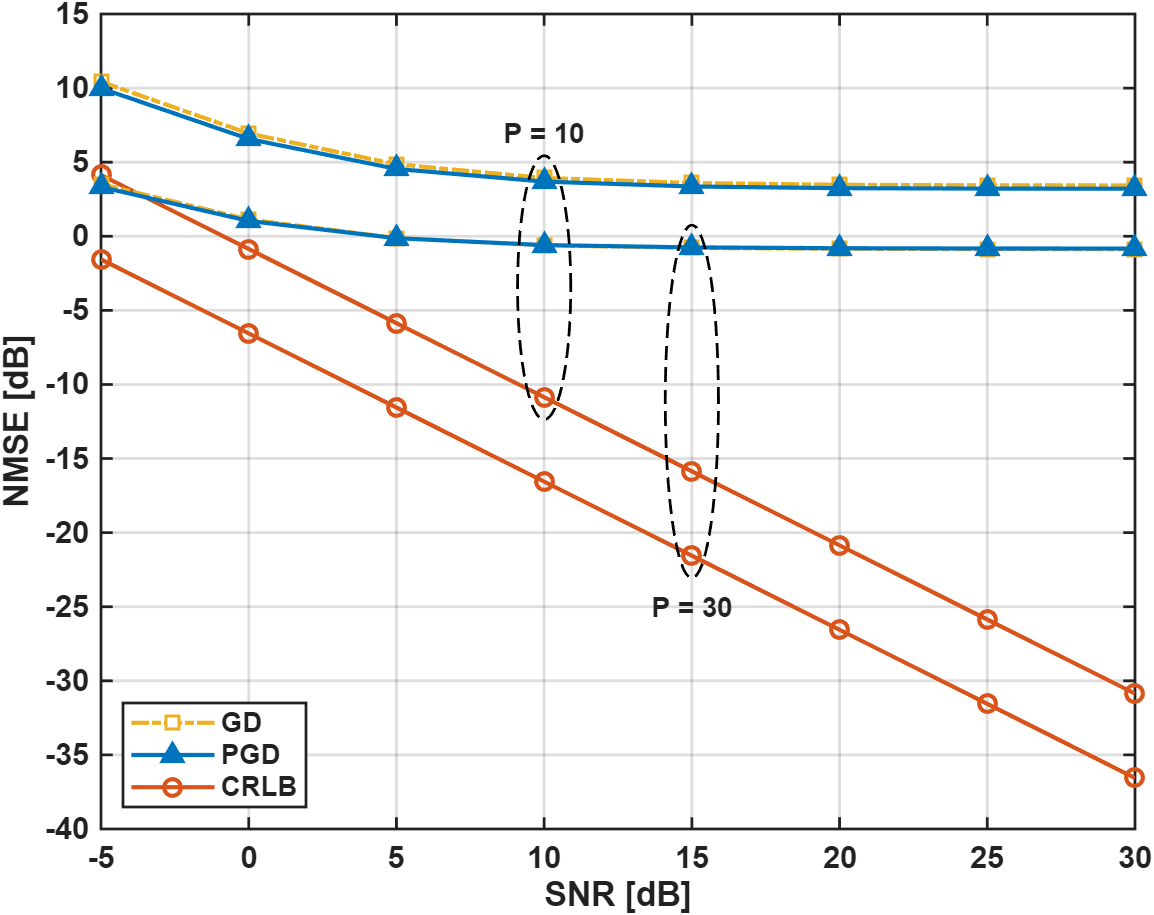
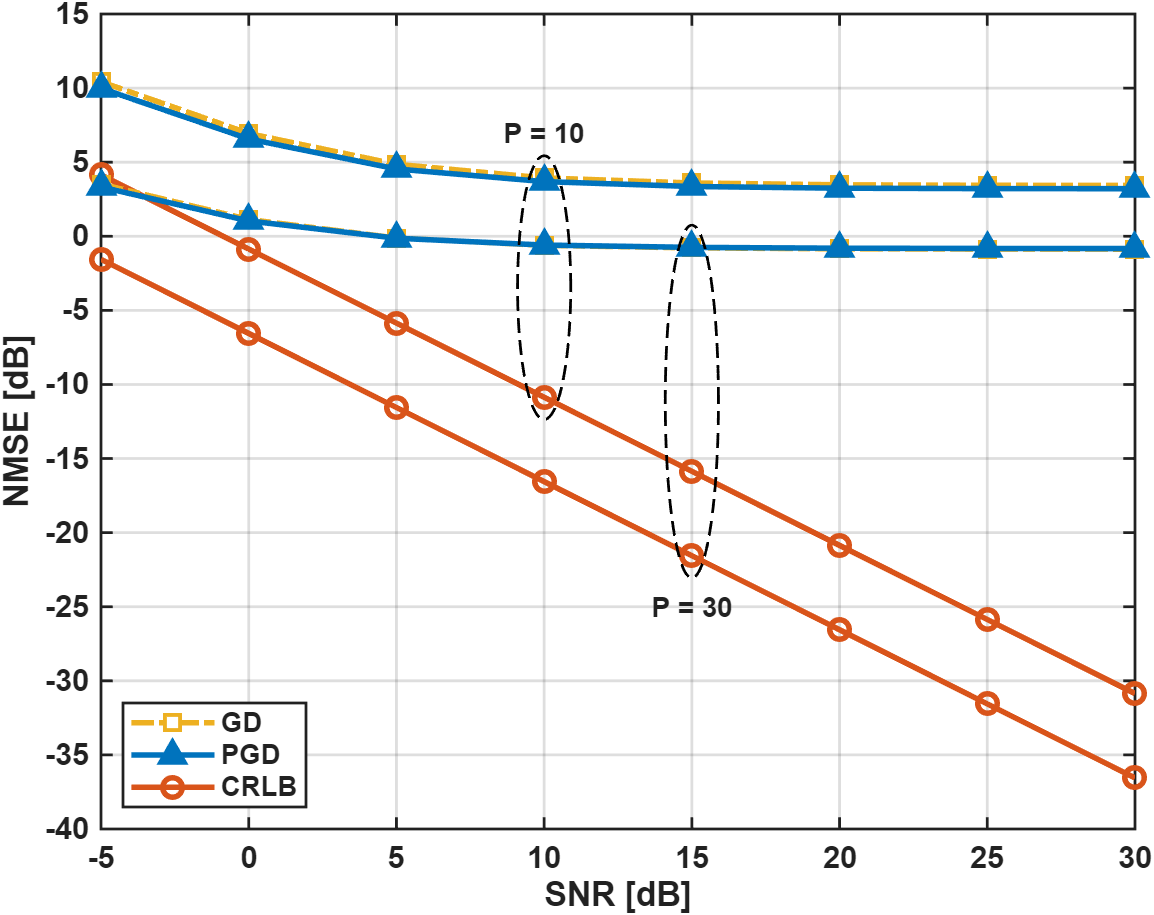
Figs. 3-4: use line width 2 and marker size 7, same as Fig. 5
Plot style only; results (.mat) unchanged.

diff --git a/Channel_Estimation_for_Rydberg_Atomic_Receivers/fig4/fig4_literal/fig4_literal.m b/Channel_Estimation_for_Rydberg_Atomic_Receivers/fig4/fig4_literal/fig4_literal.m
@@ -239,8 +239,8 @@ NMSE_CRLB_dB = 10*log10(NMSE_CRLB);
 colorGD = [0.93 0.69 0.13];
 colorPGD = [0 0.45 0.74];
 colorCRLB = [0.85 0.33 0.10];
-lw = 1.5;                                           % line width, as in the paper
-ms = 6;                                             % marker size
+lw = 2;                                             % line width, as in the paper
+ms = 7;                                             % marker size
 
 figure('Color', 'w', 'Position', [100 100 640 480]);
 hold on;

diff --git a/Channel_Estimation_for_Rydberg_Atomic_Receivers/fig4/fig4_tuned/fig4_tuned.m b/Channel_Estimation_for_Rydberg_Atomic_Receivers/fig4/fig4_tuned/fig4_tuned.m
@@ -240,8 +240,8 @@ NMSE_CRLB_dB = 10*log10(NMSE_CRLB);
 colorGD = [0.93 0.69 0.13];
 colorPGD = [0 0.45 0.74];
 colorCRLB = [0.85 0.33 0.10];
-lw = 1.5;                                           % line width, as in the paper
-ms = 6;                                           % marker size
+lw = 2;                                             % line width, as in the paper
+ms = 7;                                           % marker size
 
 figure('Color', 'w', 'Position', [100 100 640 480]);
 hold on;

diff --git a/Channel_Estimation_for_Rydberg_Atomic_Receivers/fig3/fig3_literal/fig3_literal.m b/Channel_Estimation_for_Rydberg_Atomic_Receivers/fig3/fig3_literal/fig3_literal.m
@@ -209,8 +209,8 @@ NMSE_CRLB_dB = 10*log10(NMSE_CRLB);
 
 colorGD = [0.93 0.69 0.13];
 colorCRLB = [0.85 0.33 0.10];
-lw = 2.5;                                           % line width, as in the paper
-ms = 8;                                             % marker size
+lw = 2;                                             % line width, as in the paper
+ms = 7;                                             % marker size
 
 figure('Color', 'w', 'Position', [100 100 640 480]);
 hold on;

diff --git a/Channel_Estimation_for_Rydberg_Atomic_Receivers/fig3/fig3_tuned/fig3_tuned.m b/Channel_Estimation_for_Rydberg_Atomic_Receivers/fig3/fig3_tuned/fig3_tuned.m
@@ -211,8 +211,8 @@ NMSE_CRLB_dB = 10*log10(NMSE_CRLB);
 
 colorGD = [0.93 0.69 0.13];
 colorCRLB = [0.85 0.33 0.10];
-lw = 2.5;                                           % line width, as in the paper
-ms = 8;                                             % marker size
+lw = 2;                                             % line width, as in the paper
+ms = 7;                                             % marker size
 
 figure('Color', 'w', 'Position', [100 100 640 480]);
 hold on;
